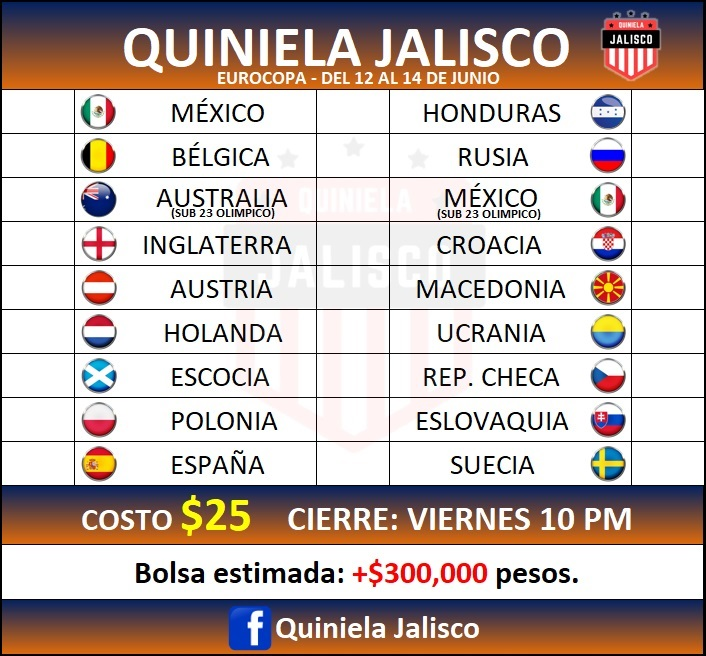
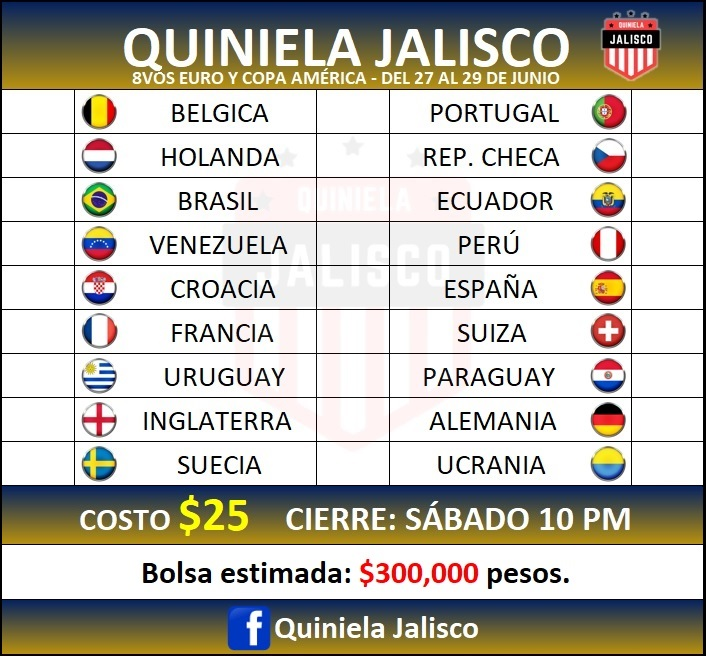
Octavos Euro (master)

diff --git a/styles.css b/styles.css
@@ -84,13 +84,13 @@ h1{
     background-color: teal;
     text-align: center;
     padding: 18px;
-    color: whitesmoke;
-    text-shadow: black 3px 1px;
+    color: #ffd400;
+    text-shadow: black 2px 2px 5px;
     margin-top: 8%;
     border: solid 1px black;
     border-radius: 0 0 14px 14px;
-    background: -webkit-linear-gradient(0.5turn, rgb(215,104,14)  ,rgb(10,37,90) 80%);
-    background: linear-gradient(0.5turn, rgb(215,104,14)  ,rgb(10,37,90) 80%);
+    background: -webkit-linear-gradient(0.5turn, rgb(176,142,34)  ,rgb(12,39,94) 80%);
+    background: linear-gradient(0.5turn, rgb(176,142,34)  ,rgb(12,39,94) 80%);
     font-size: x-large;
 }
 
